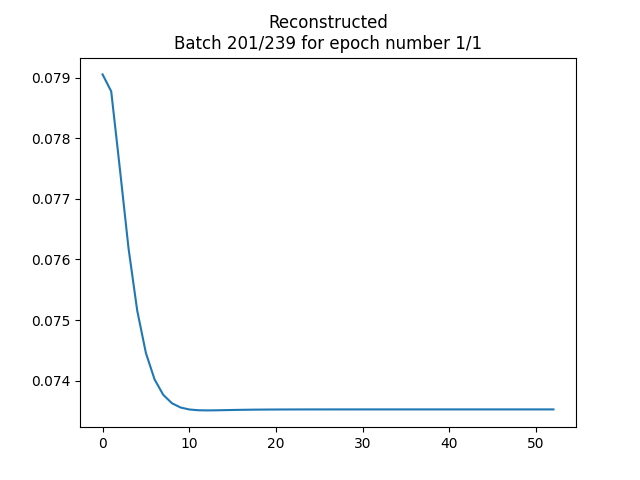
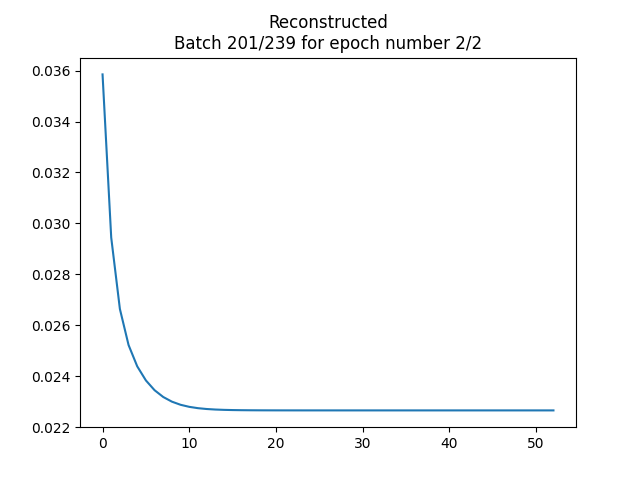
running

diff --git a/Assignment2/SaP500/SP500AE.py b/Assignment2/SaP500/SP500AE.py
@@ -15,7 +15,7 @@ import pandas as pd
 
 parser = argparse.ArgumentParser(description="Arguments of Toy AE")
 parser.add_argument('--batch_size', type=int, default=32, help="batch size")
-parser.add_argument('--epochs', type=int, default=1, help="number of epochs")
+parser.add_argument('--epochs', type=int, default=200, help="number of epochs")
 parser.add_argument('--optimizer', default='Adam', type=str, help="optimizer to use")
 parser.add_argument('--hidden_size', type=int, default=100, help="lstm hidden size")
 parser.add_argument('--num_of_layers', type=int, default=3, help="num of layers")
@@ -146,21 +146,18 @@ class SP500AE():
                 currLoss.append(loss.item())
                 currLossRecon.append(lossRecon.item())
                 currLossPred.append(lossPred.item())
-                if ind % 100 == 0:
+                if ind % 500 == 0:
                     self.plotSignal(currX[0], f"Reconstructed\nBatch {ind + 1}/{len(trainLoader)} for epoch number {epoch + 1}/{args.epochs}")
             lossArr.append(np.mean(np.asarray(currLoss)))
             lossReconArr.append(np.mean(np.asarray(currLossRecon)))
             lossPredArr.append(np.mean(np.asarray(currLossPred)))
-            self.plotPred(lossArr, lossReconArr, lossPredArr, savePlt)
+            self.plotPred(lossArr, lossReconArr, lossPredArr, savePlt)          #3.2
 
         if saveNet:
             torch.save(self.AE.state_dict(), netDir)
             print(f"Finished training. Saving net at {netDir}")
         else:
             print(f"Finished training. Not saving net")
-
-        finalData = validateData.unsqueeze(2)
-        return nn.MSELoss().forward(self.AE(finalData), finalData).detach().numpy()
 
     def testPredict(self, dataLoader, savePlt=False):
         predKeeper = []
@@ -170,7 +167,7 @@ class SP500AE():
             currX = dataLoader[:, i: i+interval]
             output, predict = self.AEPred(currX)
             predKeeper.append(predict[:, -1])
-            currLoss = nn.MSELoss().forward(input=predict[-1], target=dataLoader[:, i+interval])
+            currLoss = nn.MSELoss().forward(input=predict[:,-1], target=dataLoader[:, i+interval].squeeze())
             loss.append(currLoss.item())
         return predKeeper, np.mean(np.asarray(loss))
 
@@ -237,23 +234,34 @@ class SP500AE():
         self.plotLoss(predLoss, "Prediction Loss", savePlt)
 
     def runPrediction(self, savePlt=False):
+        startTime = time.perf_counter()
+
         data, test = splitData(parseData(), 1)
-        # self.trainPredict(DataLoader(data[0], args.batch_size, drop_last=True), test, False)
+        self.trainPredict(DataLoader(data[0], args.batch_size, drop_last=True), test, False)
         multiPredKeeper, multiLoss = self.testPredict(test.unsqueeze(2))
         reconed = self.reconstruct(test.unsqueeze(2)).squeeze()
+        halfMark = test.shape[1] - math.floor(test.shape[1]/2)
+
+        reconed = reconed[:, halfMark:]
 
         multiPredKeeper = torch.stack(multiPredKeeper, dim=1)
-        firstHalf = (test.shape[1] - math.floor(test.shape[1]/2))+1
-        multiPredFull = torch.cat((test[:, 1: firstHalf], multiPredKeeper), dim=1)
+
+        endTime = time.perf_counter()
+
+        print(f"overall time is {(endTime - startTime) / 60} minutes")
 
         plt.figure()
-        plt.title("Reconstructed vs Multi Predticted")
-        plt.plot(reconed.detach().numpy(), label="Reconstructed", color="blue")
-        plt.plot(multiPredFull.detach().numpy(), label="Multi Predicted", color="tomato")
+        plt.title("Reconstructed vs Multi Predicted")
+        plt.plot(reconed[0].detach().numpy(), label="Reconstructed", color="blue")
+        plt.plot(multiPredKeeper[0].detach().numpy(), label="Multi Predicted", color="tomato")
+        plt.xlabel("Time")
+        plt.ylabel("Closing Rate")
         plt.legend()
         if savePlt:
             plt.savefig(f"Plots/multiPredict.png")
         plt.show()
+
+
 
 
 
